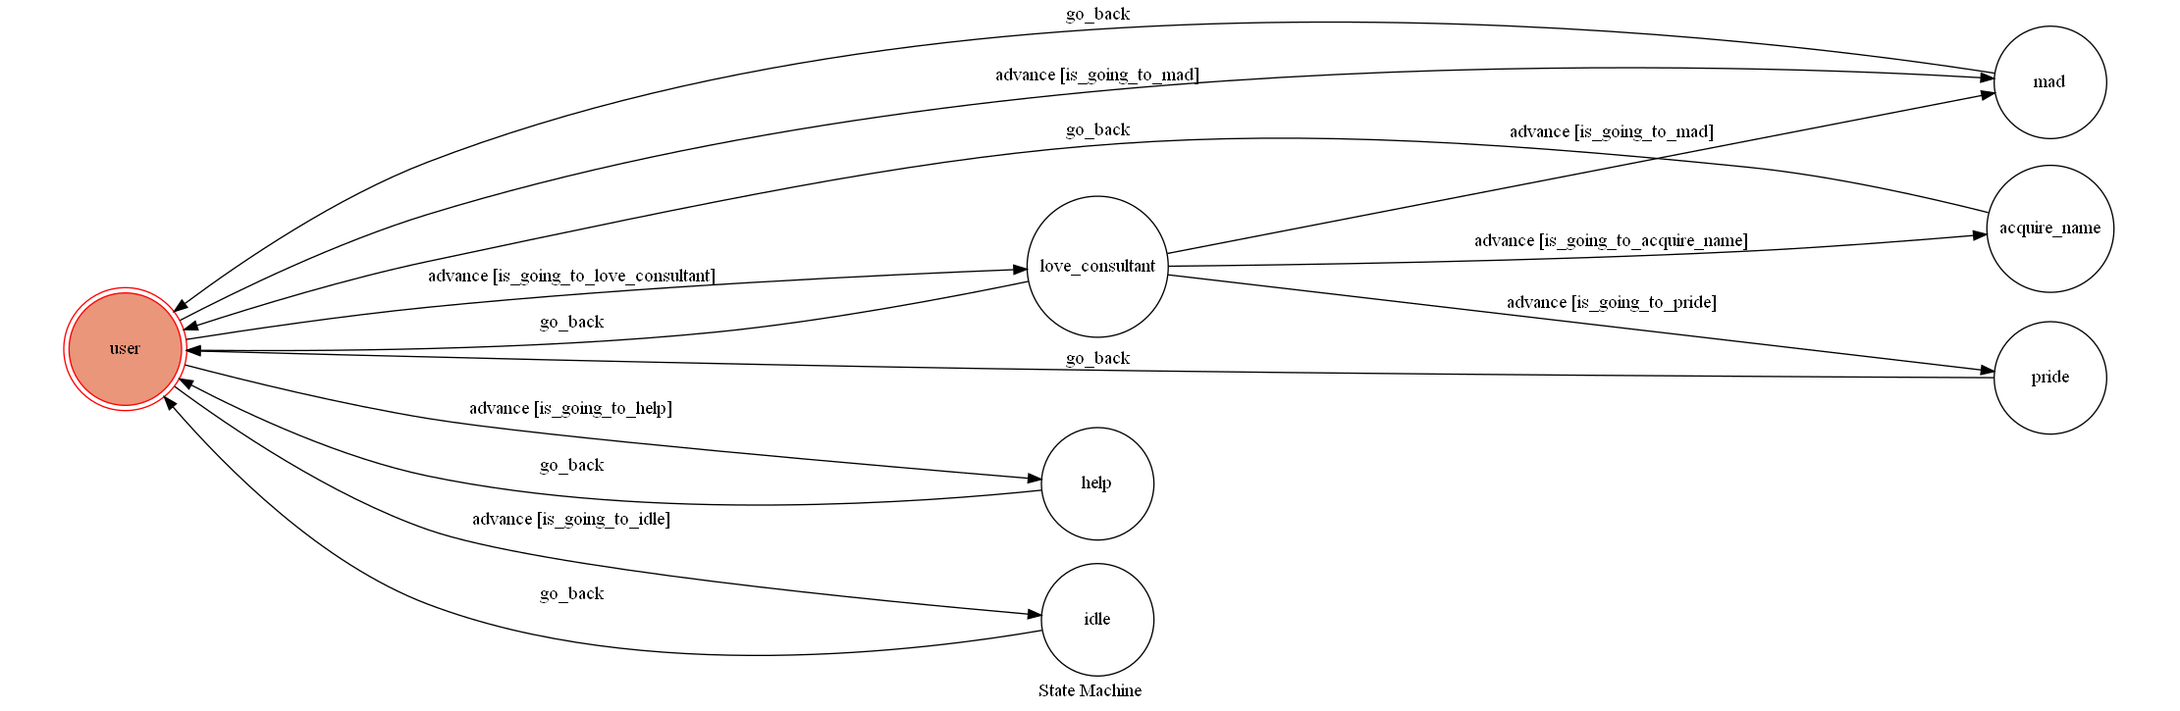
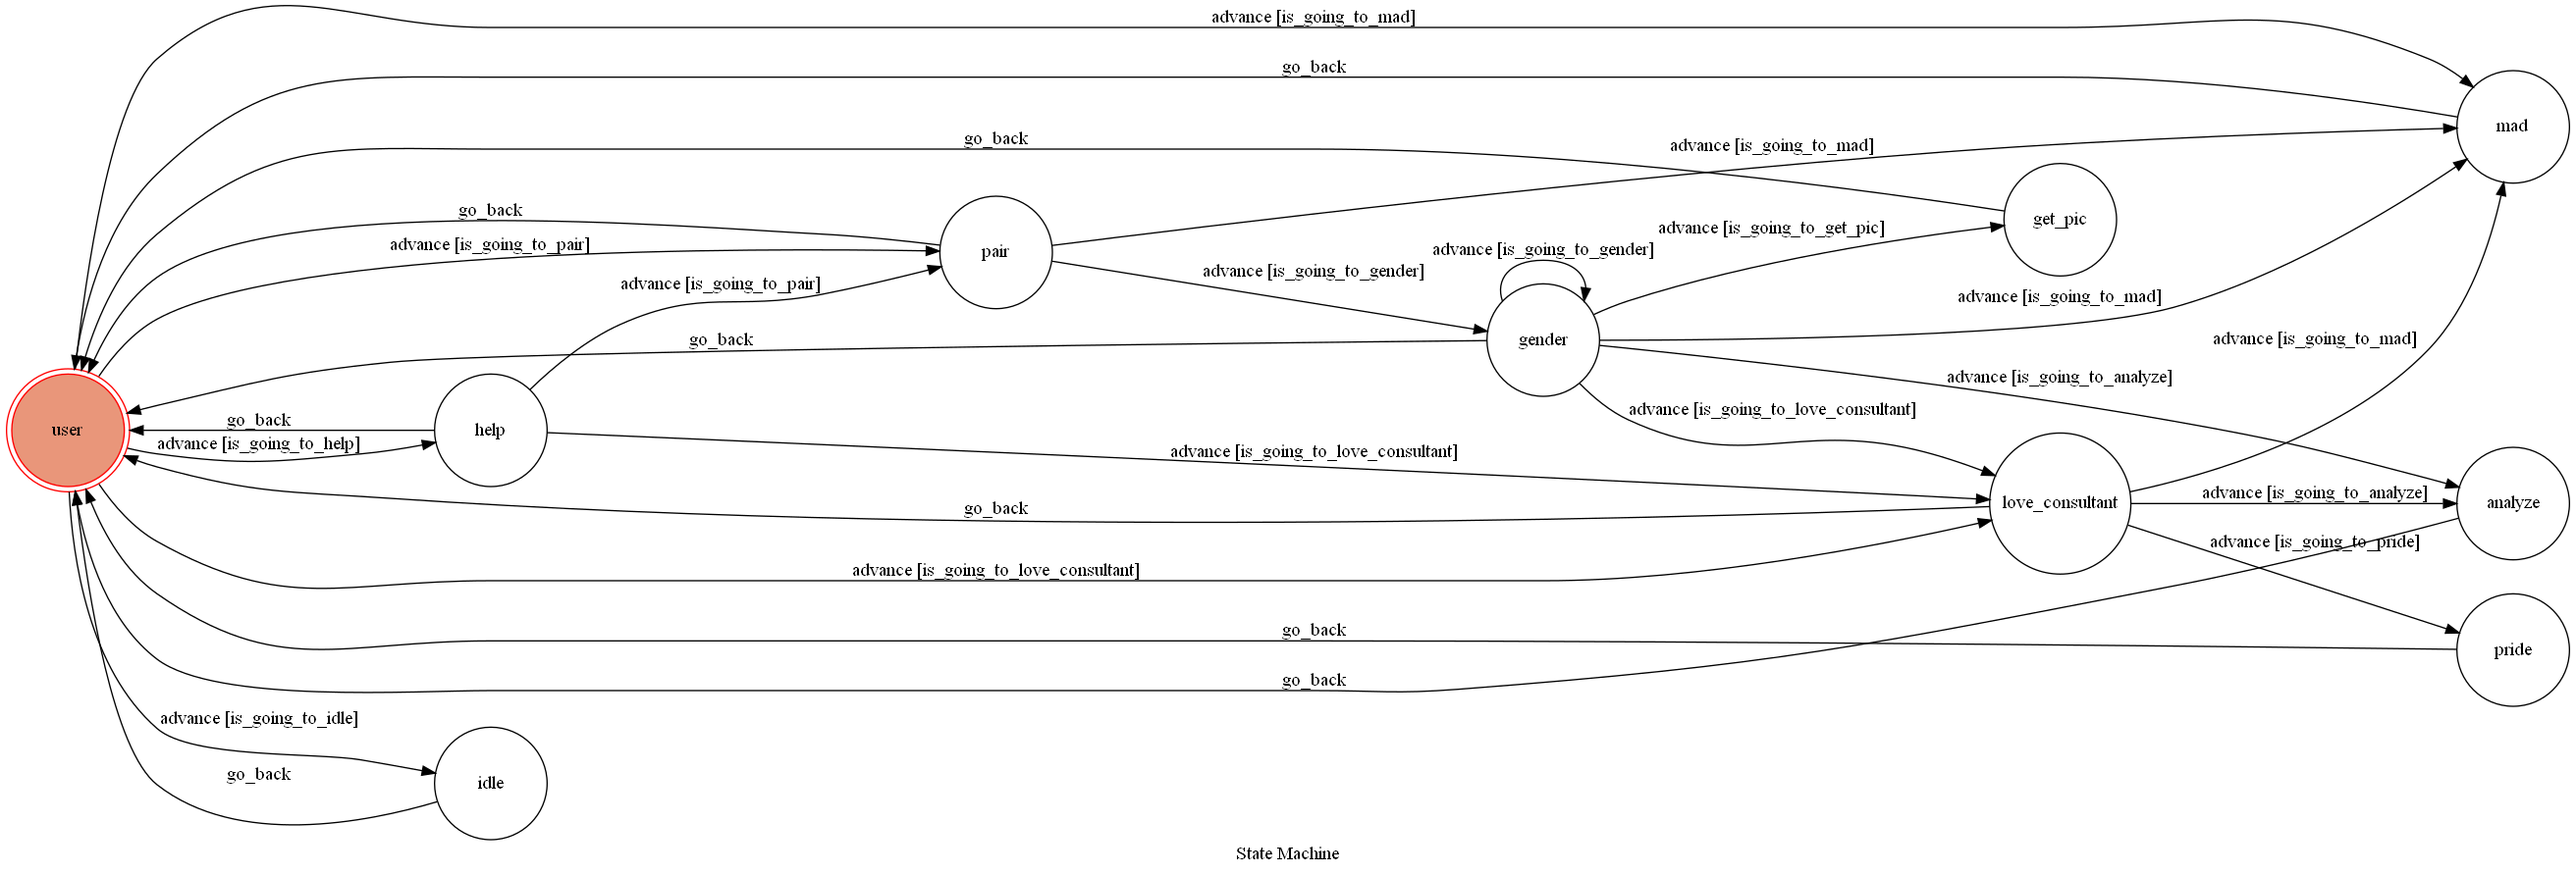
20221215 01:50
add pair

diff --git a/fsm.py b/fsm.py
@@ -6,8 +6,13 @@ from utils import send_text_message, is_mami, compare, is_kazuya, is_command, se
 
 from linebot.models import MessageTemplateAction
 
+from picture import get_pic
+
 love_name = "mami"
 
+user_gender = "男"
+request_url = ""
+last_com = "戀愛相談"
 
 class TocMachine(GraphMachine):
     def __init__(self, **machine_configs):
@@ -20,6 +25,8 @@ class TocMachine(GraphMachine):
 
     def on_enter_love_consultant(self, event):
         print("I'm entering love_consultant")
+        global last_com
+        last_com = "戀愛相談"
         reply_token = event.reply_token
         send_text_message(reply_token,
                           "こんにちわ~マミちゃんですっヾ(〃^∇^)ﾉ\n好きな人の名前を入力してください。\n您好！我是Mami！\n請輸入心儀對象的姓名：")
@@ -39,13 +46,13 @@ class TocMachine(GraphMachine):
         if num == 2:
             send_image_message(reply_token, "https://i.imgur.com/GctntXv.jpg")
         elif num == 3:
-            send_image_message(reply_token, "https://i.imgur.com/hHJHXDI.jpg")
+            send_image_message(reply_token, "https://i.imgur.com/iPQLCJ1.png")
         elif num == 4:
-            send_image_message(reply_token, "https://i.imgur.com/uAQQ1ab.jpg")
+            send_image_message(reply_token, "https://i.imgur.com/3bk1GCr.jpg")
         elif num == 1:
             send_image_message(reply_token, "https://i.imgur.com/9miZbSs.jpg")
         elif num == 5:
-            send_image_message(reply_token, "https://i.imgur.com/3bk1GCr.jpg")
+            send_text_message(reply_token, "這是我的角色曲呦～\nhttps://youtu.be/ZAC0smU1SnU")
         self.go_back()
 
     # mad
@@ -70,8 +77,8 @@ class TocMachine(GraphMachine):
             send_image_message(reply_token, url3)
         self.go_back()
 
-    # acquire_name
-    def is_going_to_acquire_name(self, event):
+    # analyze
+    def is_going_to_analyze(self, event):
         text = event.message.text
         global love_name
         love_name = '' + text
@@ -79,8 +86,8 @@ class TocMachine(GraphMachine):
             return False
         return True
 
-    def on_enter_acquire_name(self, event):
-        print("I'm entering acquire_name")
+    def on_enter_analyze(self, event):
+        print("I'm entering analyze")
         angel = 'https://i.imgur.com/1sKHooH.png'
         urusai = 'https://i.imgur.com/EvJOMq2.jpg'
         g8 = 'https://i.imgur.com/F5C3eQt.png'
@@ -89,9 +96,14 @@ class TocMachine(GraphMachine):
         trash = 'https://i.imgur.com/MZwLZHd.png'
         url = angel
         reply_token = event.reply_token
-        num1 = compare(event.source.user_id, love_name)
+        global last_com
+        global love_name
+        if last_com == "戀愛配對":
+            num1 = compare(event.source.user_id, request_url)
+        else:
+            num1 = compare(event.source.user_id, love_name)
         if num1 == 0:
-            url = trash
+            url = myfault
             mess = "您與心上人的匹配度是：" + str(
                 num1) + "%，強烈建議您趕緊轉換目標，免得受到太大的打擊喲^_^"
         elif 0 < num1 <= 20:
@@ -114,7 +126,7 @@ class TocMachine(GraphMachine):
         btn = [
             MessageTemplateAction(
                 label='再試一次',
-                text='戀愛相談'
+                text=last_com
             ),
         ]
         send_button_message(reply_token, '結果出爐啦！', mess, btn, url)
@@ -132,6 +144,7 @@ class TocMachine(GraphMachine):
             send_text_message(reply_token, "啊咧？可是我現在不想交男朋友耶 凸^_^凸")
         elif num == 2:
             send_image_message(reply_token, 'https://i.imgur.com/6C6V5fT.jpg')
+            # send_image_message(reply_token, get_pic("男"))
         self.go_back()
 
     def is_going_to_help(self, event):
@@ -139,8 +152,85 @@ class TocMachine(GraphMachine):
         return text.lower() == "help"
 
     def on_enter_help(self, event):
-        print("I'm entering idle")
+        print("I'm entering help")
         reply_token = event.reply_token
-        send_text_message(reply_token,
-                      "こんにちわ~マミちゃんですっヾ(〃^∇^)ﾉ\n您好！我是Mami！\n輸入「戀愛相談」，我會為您做戀愛匹配度分析喲～")
+        mess = "輸入「戀愛相談」，我會為您做戀愛匹配度分析喲～"+"\n輸入「戀愛配對」，我會為幫您找對象，並且回傳照片給您喔！"
+        btn = [
+            MessageTemplateAction(
+                label='戀愛相談',
+                text='戀愛相談'
+            ),
+            MessageTemplateAction(
+                label='戀愛配對',
+                text='戀愛配對'
+            ),
+        ]
+        send_button_message(reply_token, '需要幫忙嗎？！', mess, btn, "https://i.imgur.com/hHJHXDI.jpg")
+        self.go_back()
+
+    def is_going_to_pair(self, event):
+        text = event.message.text
+        return text == "戀愛配對"
+
+    def on_enter_pair(self, event):
+        print("I'm entering pair")
+        global last_com
+        last_com = "戀愛配對"
+        reply_token = event.reply_token
+        btn = [
+            MessageTemplateAction(
+                label='男',
+                text='男'
+            ),
+            MessageTemplateAction(
+                label='女',
+                text='女'
+            ),
+        ]
+        mess = "記得要選生理性別呦<3"
+        send_button_message(reply_token, '請選擇您的性別！', mess, btn, "https://i.imgur.com/jq59nLS.jpg")
+
+    def is_going_to_gender(self, event):
+        text = event.message.text
+        global user_gender
+        user_gender = text
+        return not is_command(text) and text != "獲取圖片" and text != "匹配度分析"
+
+    def on_enter_gender(self, event):
+        print("I'm entering gender")
+        global user_gender
+        global request_url
+        reply_token = event.reply_token
+        if user_gender != "男" and user_gender != "女" and is_kazuya(user_gender) == False:
+            send_text_message(reply_token, "請輸入正確的指令凸^_^凸")
+            self.go_back()
+        else:
+            btn = [
+                MessageTemplateAction(
+                    label='匹配度分析',
+                    text='匹配度分析'
+                ),
+                MessageTemplateAction(
+                    label='再試一次',
+                    text=user_gender
+                ),
+                MessageTemplateAction(
+                    label='獲取圖片',
+                    text='獲取圖片'
+                ),
+            ]
+            mess = "以下是為您精挑細選的對象！請選擇您的下一步^_^"
+            request_url = get_pic(user_gender)
+            print(love_name)
+            send_button_message(reply_token, '結果出爐啦！', mess, btn, request_url)
+
+    def is_going_to_get_pic(self, event):
+        text = event.message.text
+        return text == "獲取圖片"
+
+    def on_enter_get_pic(self, event):
+        print("I'm entering get_pic")
+        reply_token = event.reply_token
+        global request_url
+        send_image_message(reply_token, request_url)
         self.go_back()

diff --git a/app.py b/app.py
@@ -14,13 +14,31 @@ load_dotenv()
 
 
 machine = TocMachine(
-    states=["user", "love_consultant", "help", "acquire_name", "mad", "pride", "idle"],
+    states=["user", "love_consultant", "help", "analyze", "mad", "pride", "idle", "pair", "gender", "get_pic"],
     transitions=[
         {
             "trigger": "advance",
-            "source": "user",
+            "source": ["user", "gender", "help"],
             "dest": "love_consultant",
             "conditions": "is_going_to_love_consultant",
+        },
+        {
+            "trigger": "advance",
+            "source": ["user", "help"],
+            "dest": "pair",
+            "conditions": "is_going_to_pair",
+        },
+        {
+            "trigger": "advance",
+            "source": ["pair", "gender"],
+            "dest": "gender",
+            "conditions": "is_going_to_gender",
+        },
+        {
+            "trigger": "advance",
+            "source": "gender",
+            "dest": "get_pic",
+            "conditions": "is_going_to_get_pic",
         },
         {
             "trigger": "advance",
@@ -30,15 +48,15 @@ machine = TocMachine(
         },
         {
             "trigger": "advance",
-            "source": ["user", "love_consultant"],
+            "source": ["user", "love_consultant", "pair", "gender"],
             "dest": "mad",
             "conditions": "is_going_to_mad",
         },
         {
             "trigger": "advance",
-            "source": "love_consultant",
-            "dest": "acquire_name",
-            "conditions": "is_going_to_acquire_name",
+            "source": ["love_consultant", "gender"],
+            "dest": "analyze",
+            "conditions": "is_going_to_analyze",
         },
         {
             "trigger": "advance",
@@ -52,7 +70,7 @@ machine = TocMachine(
             "dest": "idle",
             "conditions": "is_going_to_idle",
         },
-        {"trigger": "go_back", "source": ["mad", "love_consultant", "help", "acquire_name", "pride", "idle"], "dest": "user"},
+        {"trigger": "go_back", "source": ["mad", "love_consultant", "help", "analyze", "pride", "idle", "pair", "gender", "get_pic"], "dest": "user"},
     ],
     initial="user",
     auto_transitions=False,

diff --git a/picture.py b/picture.py
@@ -1,0 +1,34 @@
+import random
+from bs4 import BeautifulSoup
+import requests
+import os
+
+def get_pic(user_gender):
+    if user_gender == "男":
+        num = random.randint(1, 4)
+        if num == 1:
+            response = requests.get(f"https://unsplash.com/collections/ahTYAXJvLNU/asian-woman")
+        elif num == 2:
+            response = requests.get(f"https://unsplash.com/collections/10445225/woman")
+        elif num == 3:
+            response = requests.get(f"https://unsplash.com/collections/MjdP2GYVPn8/woman")
+        elif num == 4:
+            response = requests.get(f"https://unsplash.com/collections/4899620/woman")
+    else:
+        num = random.randint(1, 4)
+        if num == 1:
+            response = requests.get(f"https://unsplash.com/collections/10587128/male")
+        elif num == 2:
+            response = requests.get(f"https://unsplash.com/collections/9676885/male")
+        elif num == 3:
+            response = requests.get(f"https://unsplash.com/collections/27323894/characters-male")
+        elif num == 4:
+            response = requests.get(f"https://unsplash.com/collections/57716725/boy")
+    soup = BeautifulSoup(response.text, "lxml")
+
+    results = soup.find_all("img", {"class": "YVj9w"}, limit=60)
+
+
+    image_links = [result.get("src") for result in results]
+    num = random.randint(0, len(results)-1)
+    return image_links[num]

diff --git a/utils.py b/utils.py
@@ -66,7 +66,7 @@ def compare(uid, love_name):
 
 
 def is_command(text):
-    if text == "戀愛相談" or is_kazuya(text) or text.lower() == "help":
+    if text == "戀愛相談" or is_kazuya(text) or text.lower() == "help" or text == "戀愛配對":
         return True
     return False
 
